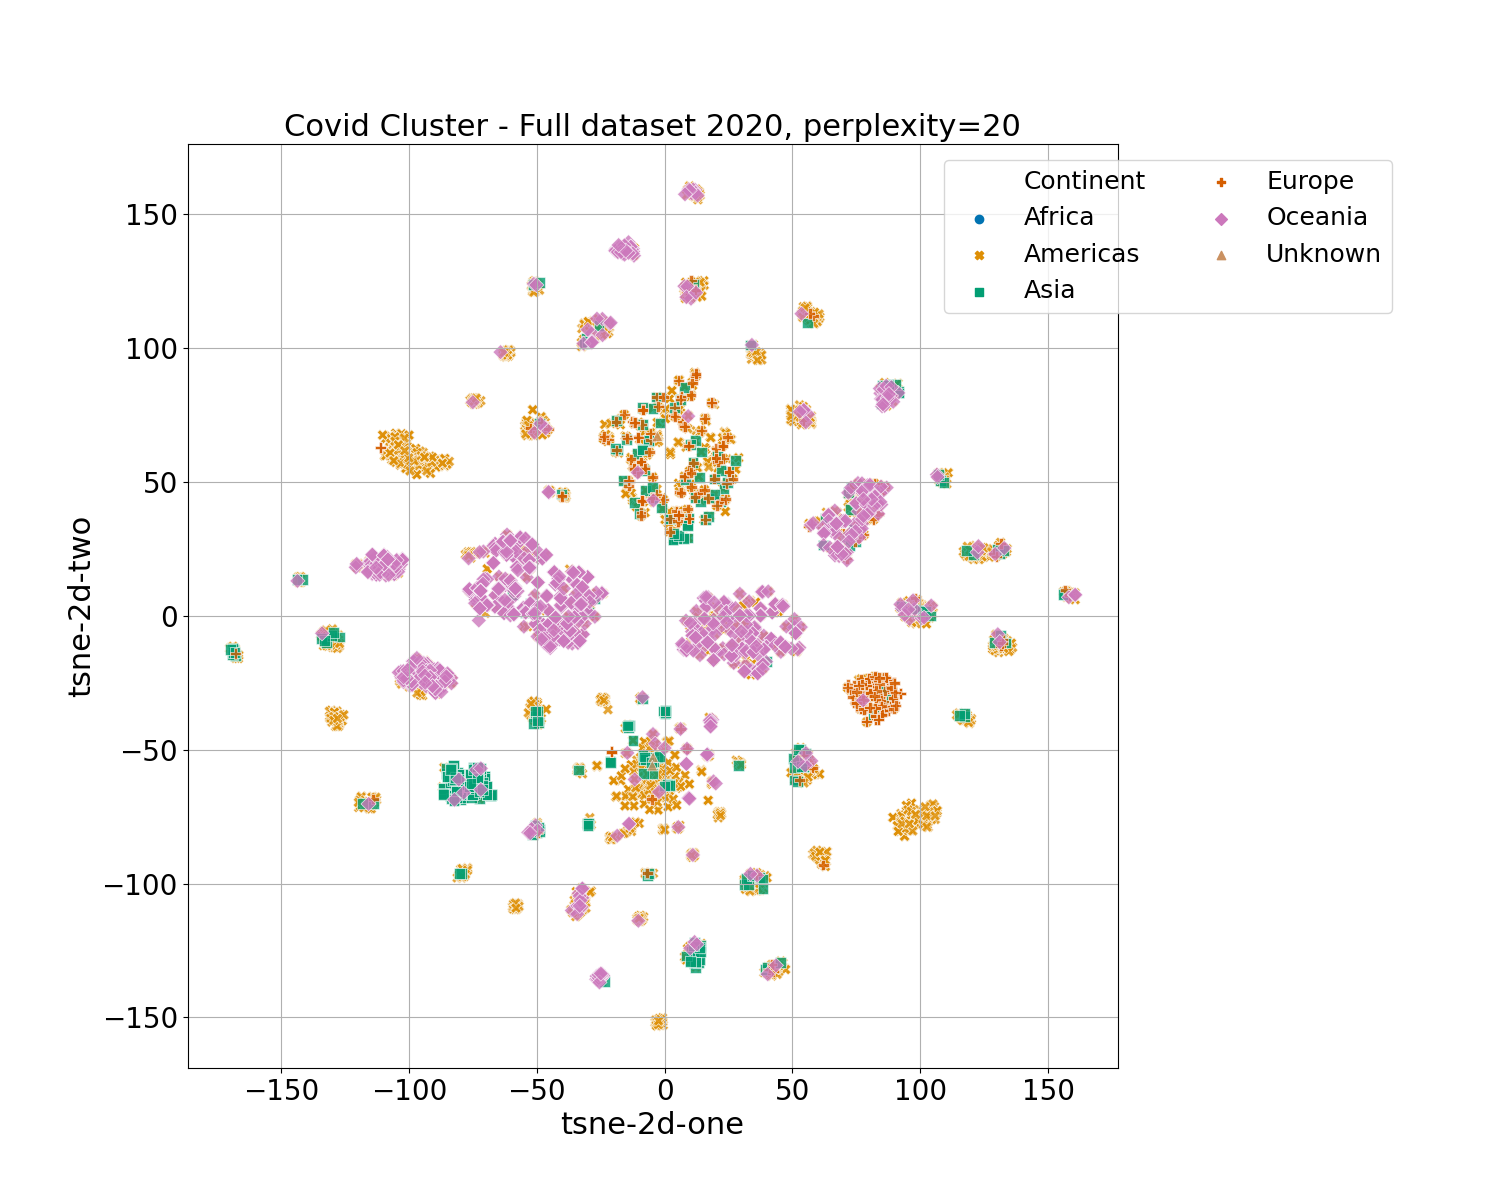
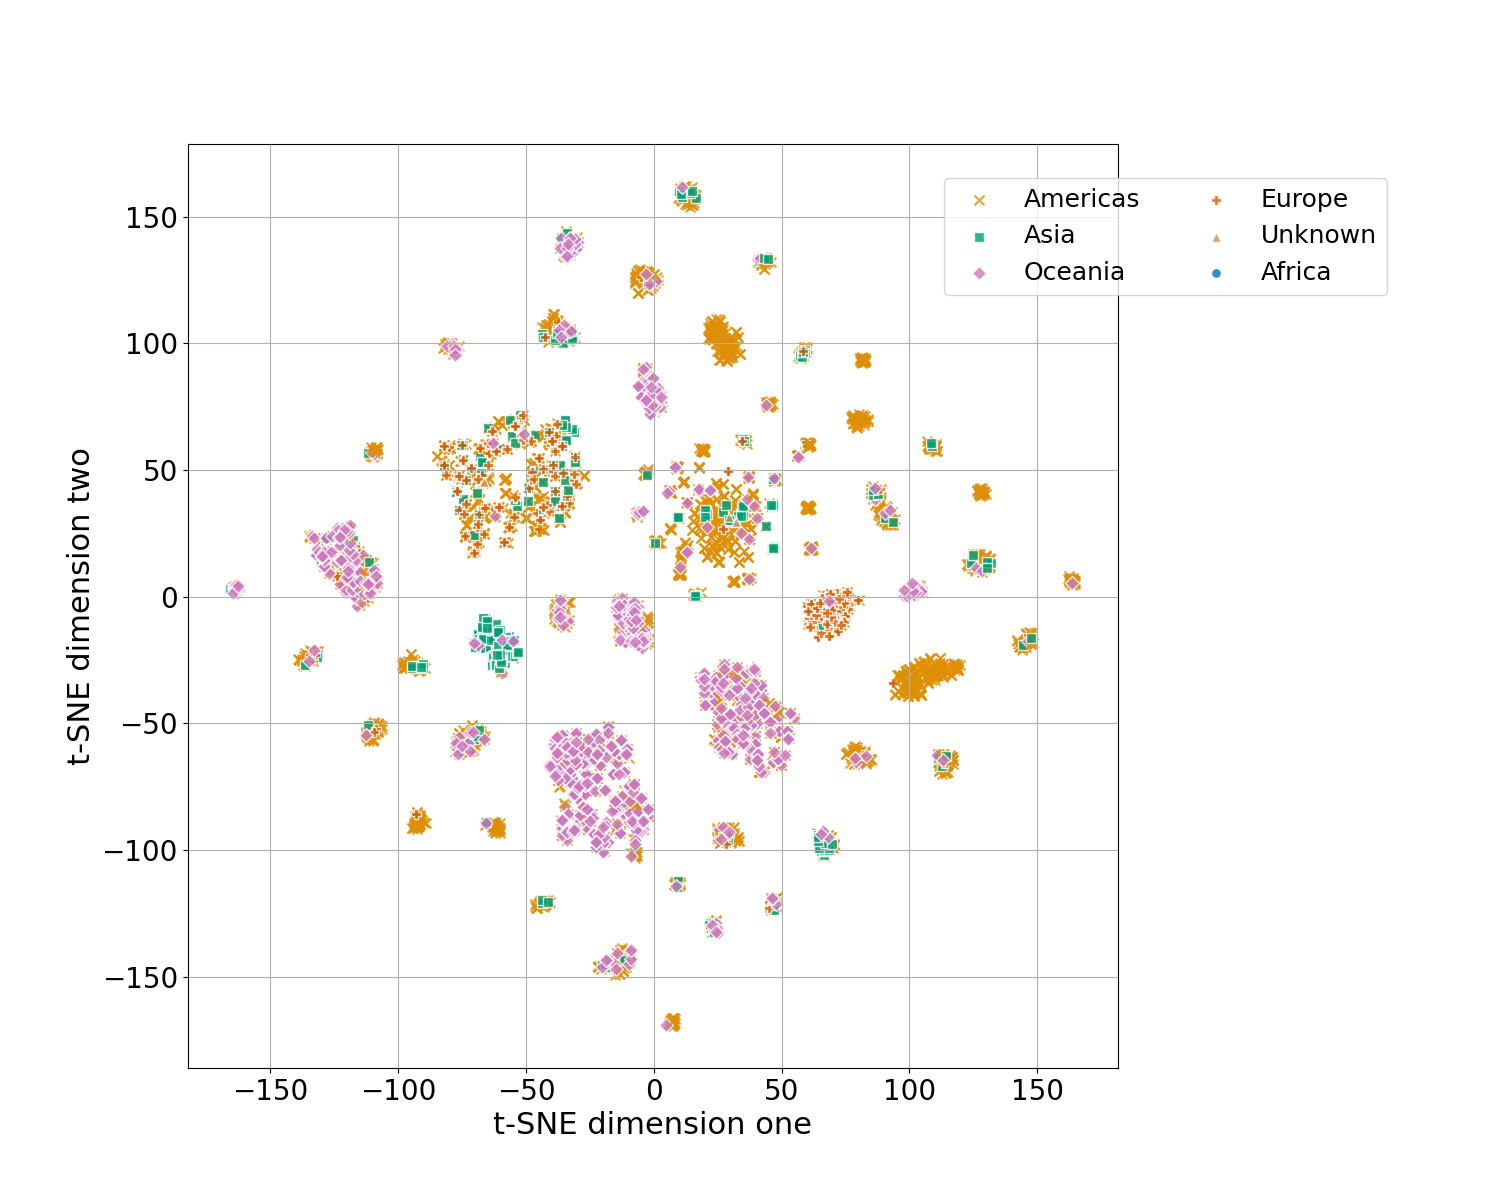
Finish up project

diff --git a/pca_tsne.py b/pca_tsne.py
@@ -44,8 +44,6 @@ month_map = {
 # load data
 sf = "merged_50"
 df = pd.read_pickle(f'files/{sf}.pickle')
-# df = df[:200]
-
 
 # add continents
 continent = []
@@ -116,7 +114,7 @@ sns.scatterplot(
     alpha=0.7
 )
 
-perp = 50
+perp = 20
 if not os.path.isfile(f't_SNE-{sf}.pickle'):
     time_start = time.time()
     tsne = TSNE(n_components=2, verbose=1, perplexity=perp, n_iter=5000)
@@ -135,6 +133,18 @@ df['tsne-2d-two'] = tsne_results[:,1]
 
 # remove countries with less than n data points
 #df = df.groupby('Geo_Location').filter(lambda x : len(x)>5)
+
+#* pick out accession numbers of interest
+accesions = [
+    'MT270104', 'MT270105', 'MT259229', 'MT259231', 'MT253700',
+    'MT253699', 'MT449674', 'MT121215', 'MT407658', 'MT079844', 
+    'MT079852', 'MN938384', 'MT528622', 'MT252799', 'MT326050', 
+    'MT326108', 'MT292579', 'MT198651', 'MT292577', 'MT233521', 
+    'MT292574', 'MT233523', 'MT256917', 'MT281577', 'MT077125',
+    'MT292572', 'MT066156', 'MT019531', 'MT358641', 'MT358638', 
+    'MT291828'
+]
+# df = df[df['Accession'].isin(accesions)]
 
 #* get number of unique categories to choose graph colors
 month = 'March'
@@ -173,67 +183,80 @@ print(grid.shape)
 dx = grid[0,1] - grid[0,0]
 dy = grid[1,1] - grid[1,0]
 
+np.random.seed(1)
 #* Iterate over grid points, and calculate dominant 
 added_labels = []
-# for i in range(grid.shape[1]-1):
-#     for j in range(grid.shape[1]-1):
-#         # Count the number of samples from each continent in each grid
-#         x = grid[0,i]
-#         y = grid[1,j]
-#         sub_df = month_df.loc[
-#             (month_df['tsne-2d-one'] >= x) & (month_df['tsne-2d-one'] <= x+dx) &
-#             (month_df['tsne-2d-two'] >= y) & (month_df['tsne-2d-two'] <= y+dy)
-#             ]
-#         if len(sub_df) > 0:
-#             unique, counts = np.unique(sub_df['Continent'], return_counts=True)
-#             dcont = ''
-#             size = counts[0]
+for i in range(grid.shape[1]-1):
+    for j in range(grid.shape[1]-1):
+        # Count the number of samples from each continent in each grid
+        x = grid[0,i]
+        y = grid[1,j]
+        sub_df = month_df.loc[
+            (month_df['tsne-2d-one'] >= x) & (month_df['tsne-2d-one'] <= x+dx) &
+            (month_df['tsne-2d-two'] >= y) & (month_df['tsne-2d-two'] <= y+dy)
+            ]
+        if len(sub_df) > 0:
+            unique, counts = np.unique(sub_df['Continent'], return_counts=True)
+            dcont = ''
+            size = counts[0]
 
-#             if size > 10:
-#                 # Plot dominant continent as blob if there are more than 20 of them in the block
-#                 dcont = unique[0]
-#                 ax.scatter(
-#                     x=x+dx/2, 
-#                     y=y+dy/2, 
-#                     color=color_map[dcont],
-#                     alpha=0.4,
-#                     marker="o",
-#                     s=size*20
-#                 )
-#             # Scatter other points
-#             for idx, c_df in sub_df.loc[sub_df['Continent'] != dcont].iterrows():
-#                 c = c_df['Continent']
-#                 if not c in added_labels:
-#                     l = c
-#                     added_labels.append(c)
-#                 else: 
-#                     l = ''
-#                 ax.scatter(
-#                     x=c_df['tsne-2d-one'],
-#                     y=c_df['tsne-2d-two'],
-#                     color=color_map[c],
-#                     alpha=0.8,
-#                     marker=continent_styles[c],
-#                     edgecolor='w',
-#                     s=60,
-#                     label=l
-#                 )
+            if size > 20000:
+                # Plot dominant continent as blob if there are more than 20 of them in the block
+                dcont = unique[0]
+                ax.scatter(
+                    x=x+dx/2, 
+                    y=y+dy/2, 
+                    color=color_map[dcont],
+                    alpha=0.4,
+                    marker="o",
+                    s=size*20
+                )
+            # Scatter other points
+            for idx, c_df in sub_df.loc[sub_df['Continent'] != dcont].iterrows():
+                c = c_df['Continent']
+                if not c in added_labels:
+                    l = c
+                    added_labels.append(c)
+                else: 
+                    l = ''
+                ax.scatter(
+                    x=c_df['tsne-2d-one'],
+                    y=c_df['tsne-2d-two'],
+                    color=color_map[c],
+                    alpha=0.8,
+                    marker=continent_styles[c],
+                    edgecolor='w',
+                    s=50,
+                    label=l
+                )
+                
+                # mx = np.random.uniform(1,5)
+                # my = np.random.uniform(1,5)
+                # mx = 1
+                # my = 1
+                # ax.text(
+                #     x=c_df['tsne-2d-one']+mx,
+                #     y=c_df['tsne-2d-two']+my,
+                #     s=c_df['Accession'],
+                #     fontsize=14,
+                #     color='gray'
+                # )
 
 
-sns.scatterplot(
-    x="tsne-2d-one", y="tsne-2d-two",
-    #palette=sns.cubehelix_palette(num_cats),
-    palette=sns.color_palette("colorblind", num_conts),
-    #palette = sns.color_palette(flatui, num_months),
-    style="Continent",
-    hue="Continent",
-    hue_order=conts,
-    data=month_df,
-    legend="full",
-    alpha=0.8,
-    linewidth=0.5,
-    s=60
-)
+# sns.scatterplot(
+#     x="tsne-2d-one", y="tsne-2d-two",
+#     #palette=sns.cubehelix_palette(num_cats),
+#     palette=sns.color_palette("colorblind", num_conts),
+#     #palette = sns.color_palette(flatui, num_months),
+#     style="Continent",
+#     hue="Continent",
+#     hue_order=conts,
+#     data=month_df,
+#     legend="full",
+#     alpha=0.8,
+#     linewidth=0.5,
+#     s=60
+# )
 
 
 
@@ -242,7 +265,9 @@ sns.scatterplot(
 ax.grid()
 handles, labels = ax.get_legend_handles_labels()
 ax.legend_ = None
-ax.set_title(f'Covid Cluster - Full dataset 2020, perplexity={perp}')
+# ax.set_title(f'Covid Cluster - Full dataset 2020, perplexity={perp}')
+ax.set_xlabel('t-SNE dimension one')
+ax.set_ylabel('t-SNE dimension two')
 # Shrink current axis by 20%
 box = ax.get_position()
 ax.set_position([box.x0, box.y0, box.width * 0.8, box.height])
